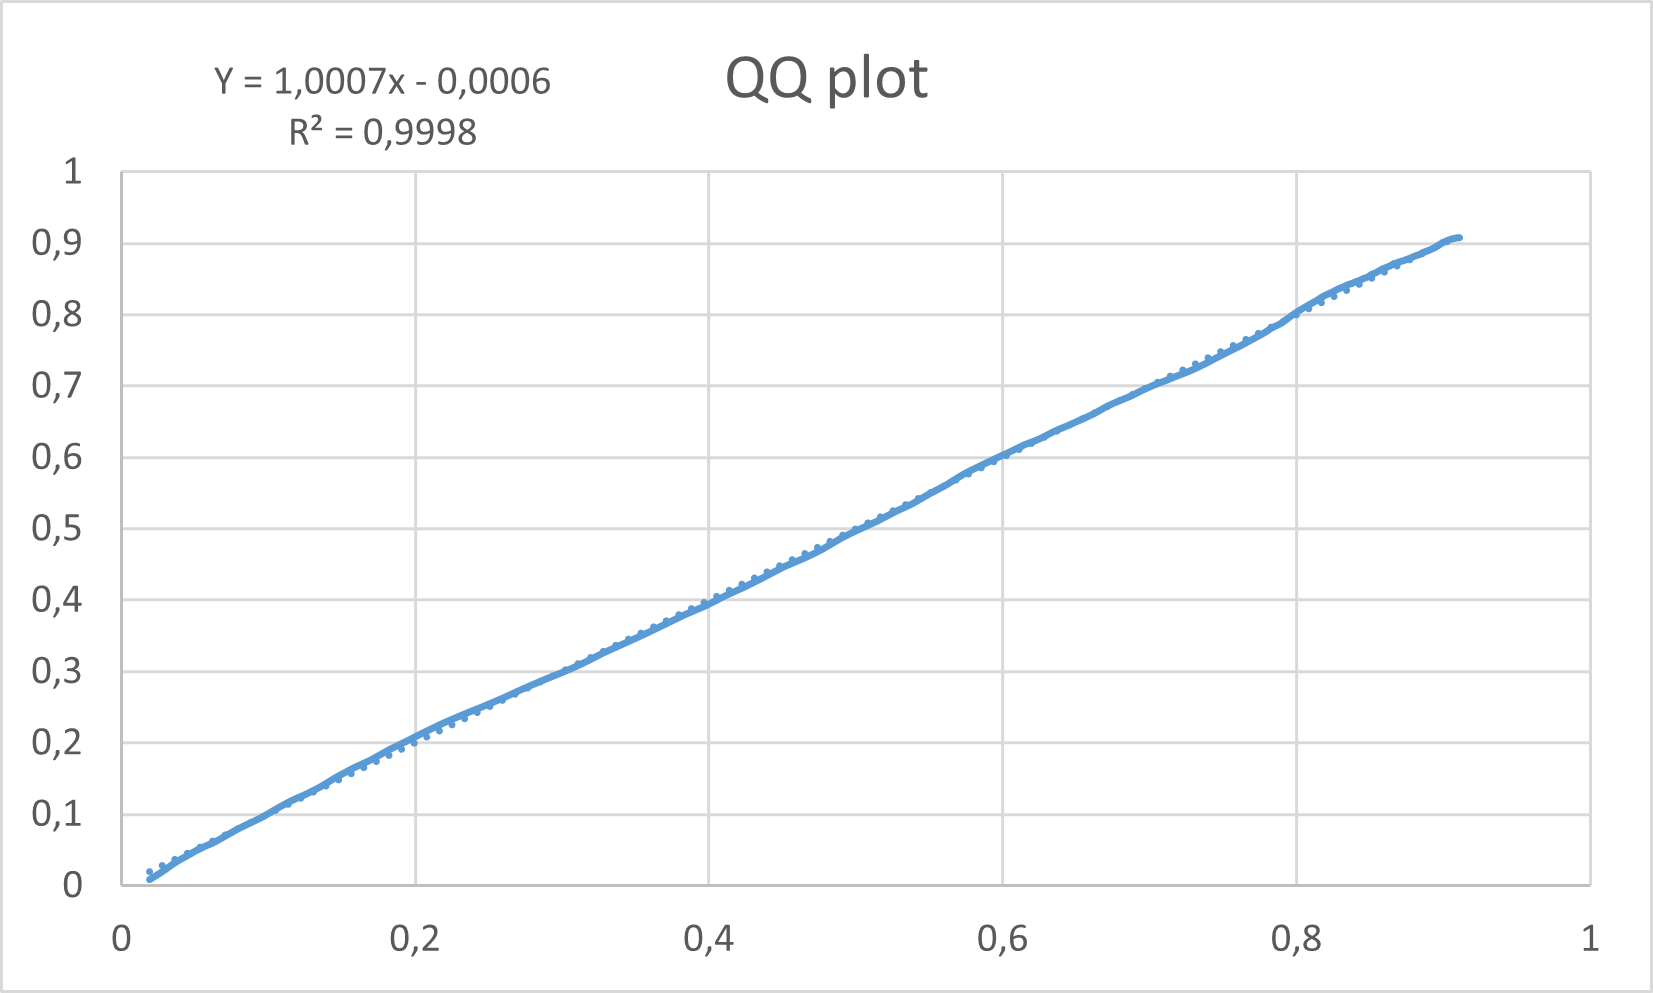
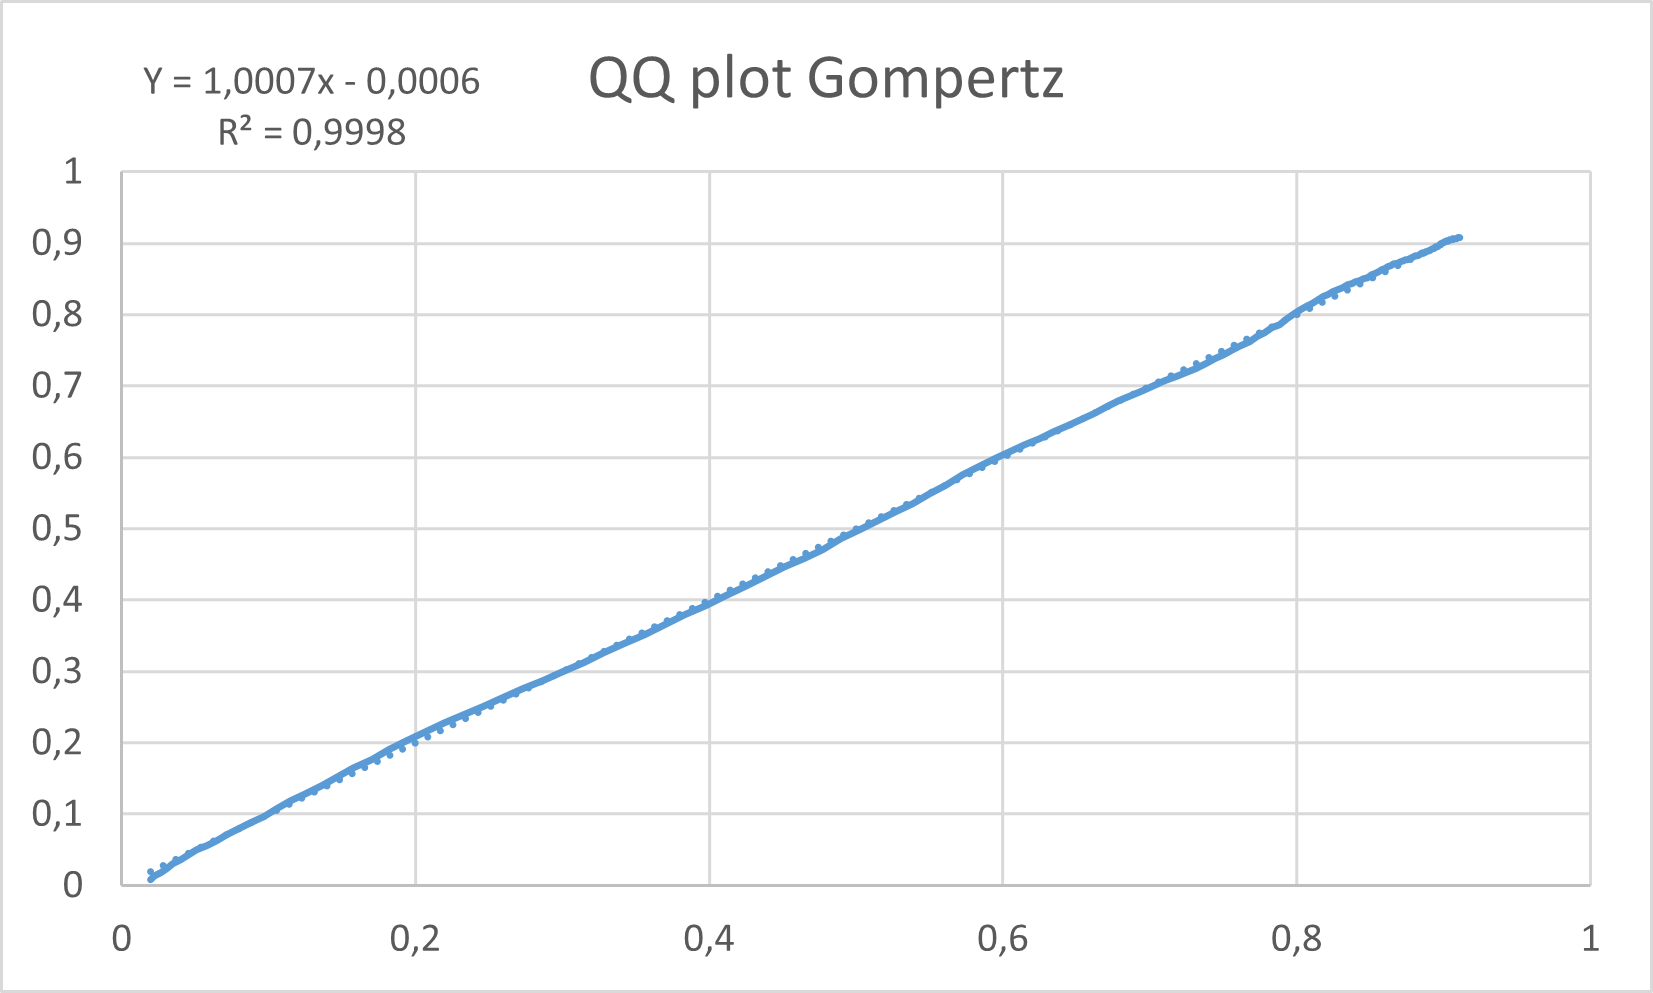
add QQ plot for the sigmoid model

Changed region(s): [[0.0926, 0.0312, 0.6479, 0.1561]]

diff --git a/documentation/Model_fitting.tex b/documentation/Model_fitting.tex
@@ -32,13 +32,19 @@ The requirements for both Gompertz and Sigmoid models are met, in particular:
 
 
 
-By performing a residual analysis the Gompertz model results to be the most suited for our samples i. e. for the configuration of $p=0.15$  $r=10$ the MSE value for Gompertz is 0,0027 meanwhile the one for the sigmoid is 0,2984. Note that these values are very close to 0 since a spreadsheet solver was used to minimize the MSE (with the found values $A=0.9117$ $B=4.0959$ and $R=0.0414$), a QQ plot for this configuration is shown below. In addition the use of the Gompertz model fits the logic of one of its typical case: examining diseases spread.
+By performing a residual analysis the Gompertz model results to be the most suited for our samples i. e. for the configuration of $p=0.15$  $r=10$ the MSE value for Gompertz is 0,0027 meanwhile the one for the sigmoid is 0,2984. Note that these values are very close to 0 since a spreadsheet solver was used to minimize the MSE (with the found values $A=0.9117$ $B=4.0959$ and $R=0.0414$), a QQ plot for this configuration is shown below. In addition the use of the Gompertz model fits the logic of one of its typical case: examining diseases spread. Regarding the sigmoid model the value generated by the solver were $A=0.9474$ and $R=0.0264$
+
 
 \begin{figure}[H]
-\centering
-    \includegraphics[width= 1\textwidth]{./images/QQPlot200.png}
-    \caption{QQ plot for the Gompertz model for runs with configuration $p=0.15$ $r=10$}
+    \centering
+    \subfloat[\centering Gompertz model]{{\includegraphics[width=8cm]{./images/QQPlot200.png} }}
+    \qquad
+    \subfloat[\centering Sigmoid model]{{\includegraphics[width=8cm]{./images/QQPlotSigmoid200.png}}}
+    \caption{QQ plots for the models}
 \end{figure}
+
+
+
 
 The QQ plot confirms linear relationship between the values from our sample and the ones from the Gompertz model, this is also indicated by the value for $R^2$.
 
